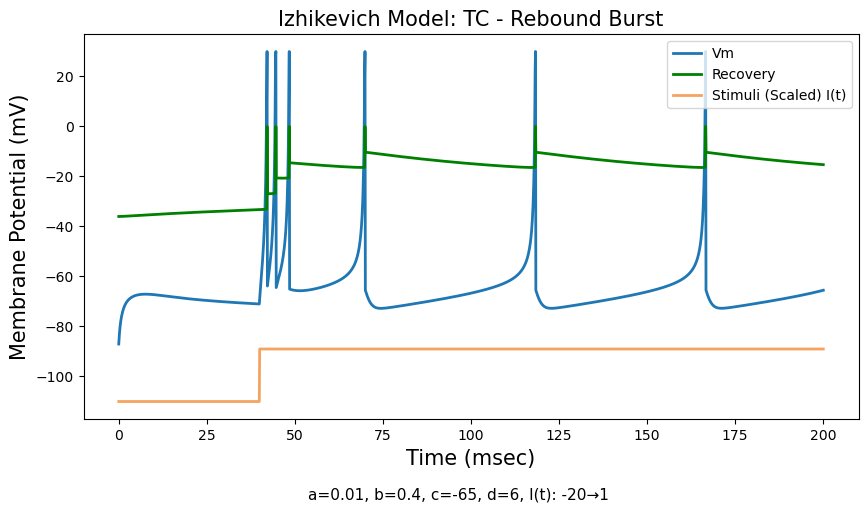
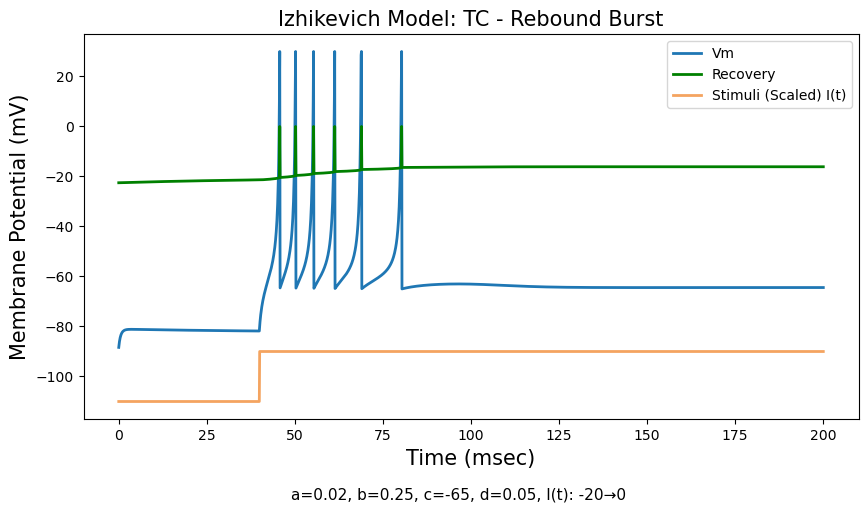
fix All TC - 100 work

Changed region(s): [[0.1244, 0.0938, 0.9643, 0.6875], [0.3422, 0.9375, 0.7154, 1.0], [0.4355, 0.5938, 0.4666, 0.625]]

diff --git a/The_Izhik_n_Model.py b/The_Izhik_n_Model.py
@@ -10,10 +10,10 @@ y  = 140
 titles = ['Regular Spiking', 'Intrinsically Bursting', 'Chattering', 'Fast spiking',
           'Low Threshold Spiking', 'TC - Tonic Firing', 'TC - Rebound Burst',
           'Resonator - Appropriate Frequency', 'Resonator - Inappropriate Frequency']
-a  = [0.02, 0.02, 0.02, 0.1, 0.02, 0.02, 0.001, 0.1, 0.1]
-b  = [0.2, 0.2, 0.2, 0.2, 0.25, 0.25, 0.4, 0.26, 0.26]
+a  = [0.02, 0.02, 0.02, 0.1, 0.02, 0.02, 0.02, 0.1, 0.1]
+b  = [0.2, 0.2, 0.2, 0.2, 0.25, 0.25, 0.25, 0.26, 0.26]
 c  = [-65, -55, -50, -65, -65, -65, -65, -65, -65]
-d  = [8, 4, 2, 2, 2, 2, 6, 2, 2]
+d  = [8, 4, 2, 2, 2, 0.05, 0.05, 2, 2]
 
 v0s = [-70, -70, -70, -70, -70, -60, -90, -70, -70]
 # v0 = -70         # Resting potential        [mV]
@@ -33,8 +33,8 @@ for exp in range(len(a)):
     if titles[exp] == 'TC - Rebound Burst':
         tempStim = np.zeros(len(time))
         tempStim[int(0 / dt):int(40 / dt)] = -20
-        tempStim[int(40 / dt):] = 1
-        stimLabel = "I(t): -20→1"
+        tempStim[int(40 / dt):] = 0
+        stimLabel = "I(t): -20→0"
     elif titles[exp] == 'Resonator - Appropriate Frequency':
         tempStim = np.ones(len(time)) * -0.65
         # pulse_times = [70, 95, 120, 145, 170]
